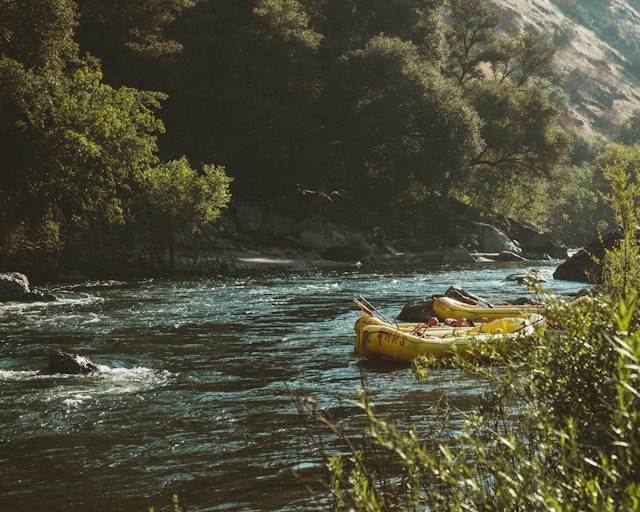
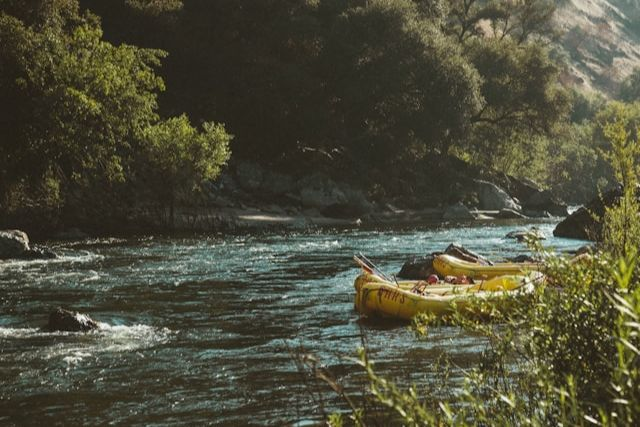
Week 06

diff --git a/wwr/trips.html b/wwr/trips.html
@@ -1,0 +1,139 @@
+<!DOCTYPE html>
+<html lang="en">
+
+<head>
+    <meta charset="UTF-8">
+    <meta name="viewport" content="width=device-width, initial-scale=1.0">
+    <meta name="description"
+      content="Explore Venice Rafting's whitewater trips: La Acequia, Monte andino, Río Canaguá, Ríos del Sur, and Río Sinigüís. Find the perfect adventure for you.">
+    <meta name="author" content="Valeria Quintero">
+    <title>Venice Rafting | Trips</title>
+    <link rel="stylesheet" href="styles/rafting.css">
+</head>
+
+<body>
+    <header>
+        <img src="images/logo.png" alt="Venice rafting logo">
+        <nav>
+            <ul>
+                <li><a href="index.html">Home</a></li>
+                <li><a href="about.html">About Us</a></li>
+                <li><a href="trips.html" class="active">Trips</a></li>
+                <li><a href="contact.html">Contact Us</a></li>
+            </ul>
+        </nav>
+    </header>
+
+    <main>
+
+        <!-- contact -->
+        <section class="trips-cta">
+            <h1>Choose Your Adventure</h1>
+            <p>From gentle floats to adrenaline pumping rapids, we have a trip for every level. Have
+                questions? Our team is ready to help.</p>
+            <a href="contact.html" class="btn btn-primary">Contact Us Today</a>
+        </section>
+
+        <!-- Trip cards-->
+        <section class="trip-cards">
+            <h2>Featured Trips</h2>
+            <div class="cards-grid">
+                <article class="trip-card">
+                    <img src="images/rafting1.jpg" alt="La Acequia river rapids">
+                    <h3>La Acequia</h3>
+                    <p><strong>Difficulty:</strong> Class III–IV</p>
+                    <p><strong>Duration:</strong> 1 Day</p>
+                    <p>Experience the thrill of Venezuela’s most iconic canyon. This full‑day trip
+                        combines big waves, stunning rock formations, and a picnic by the river.</p>
+                </article>
+                <article class="trip-card">
+                    <img src="images/rafting2.jpg" alt="Monte andino forest rafting">
+                    <h3>Monte andino</h3>
+                    <p><strong>Difficulty:</strong> Class II–III</p>
+                    <p><strong>Duration:</strong> Half Day</p>
+                    <p>Perfect for families and beginners, this scenic float takes you through lush
+                        Andean foothills with plenty of wildlife and calm stretches to enjoy.</p>
+                </article>
+                <article class="trip-card">
+                    <img src="images/rafting3.jpg" alt="Río Canaguá sunset trip">
+                    <h3>Río Canaguá</h3>
+                    <p><strong>Difficulty:</strong> Class IV–V</p>
+                    <p><strong>Duration:</strong> 2 Days</p>
+                    <p>For the true adventurer – overnight camping under the stars, with continuous
+                        whitewater and remote wilderness. Advanced paddling skills required.</p>
+                </article>
+            </div>
+        </section>
+
+        <!-- trip table -->
+        <section class="trip-table-section">
+            <h2>All Available Trips</h2>
+            <table class="trip-table">
+                <thead>
+                    <tr>
+                        <th>Trip Name</th>
+                        <th>Difficulty</th>
+                        <th>Duration</th>
+                        <th>Price (per person)</th>
+                        <th>Group Size</th>
+                    </tr>
+                </thead>
+                <tbody>
+                    <tr>
+                        <td>La Acequia</td>
+                        <td>Class III–IV</td>
+                        <td>1 Day</td>
+                        <td>$120</td>
+                        <td>4–12</td>
+                    </tr>
+                    <tr>
+                        <td>Monte andino</td>
+                        <td>Class II–III</td>
+                        <td>Half Day</td>
+                        <td>$80</td>
+                        <td>4–16</td>
+                    </tr>
+                    <tr>
+                        <td>Río Canaguá</td>
+                        <td>Class IV–V</td>
+                        <td>2 Days</td>
+                        <td>$280</td>
+                        <td>4–8</td>
+                    </tr>
+                    <tr>
+                        <td>Ríos del Sur</td>
+                        <td>Class III</td>
+                        <td>1 Day</td>
+                        <td>$110</td>
+                        <td>4–14</td>
+                    </tr>
+                    <tr>
+                        <td>Río Sinigüís</td>
+                        <td>Class II</td>
+                        <td>Half Day</td>
+                        <td>$65</td>
+                        <td>4–20</td>
+                    </tr>
+                </tbody>
+            </table>
+        </section>
+
+    </main>
+
+    <footer>
+        <p>© 2026 Venice Rafting, Valeria Quintero | Rush through the water.</p>
+        <nav class="socialmedia">
+            <a href="https://facebook.com" target="_blank" rel="noopener noreferrer">
+                <img src="images/facebook.png" alt="Facebook icon">
+            </a>
+            <a href="https://twitter.com" target="_blank" rel="noopener noreferrer">
+                <img src="images/twitter.png" alt="Twitter icon">
+            </a>
+            <a href="https://instagram.com" target="_blank" rel="noopener noreferrer">
+                <img src="images/instagram.png" alt="Instagram icon">
+            </a>
+        </nav>
+    </footer>
+</body>
+
+</html>

diff --git a/wwr/index.html b/wwr/index.html
@@ -1,0 +1,130 @@
+<!DOCTYPE html>
+<html lang="en">
+
+<head>
+    <meta charset="UTF-8">
+    <meta name="viewport" content="width=device-width, initial-scale=1.0">
+    <meta name="description"
+      content="Venice Rafting offers unforgettable whitewater adventures inspired by Venezuela. Book your trip today and experience the thrill of the river.">
+    <meta name="author" content="Valeria Quintero">
+    <title>Venice Rafting | Home</title>
+    <link rel="stylesheet" href="styles/rafting.css">
+</head>
+
+<body>
+    <header>
+        <img src="images/logo.png" alt="Venice rafting logo">
+        <nav>
+            <ul>
+                <li><a href="index.html" class="active">Home</a></li>
+                <li><a href="about.html">About Us</a></li>
+                <li><a href="trips.html">Trips</a></li>
+                <li><a href="contact.html">Contact Us</a></li>
+            </ul>
+        </nav>
+    </header>
+
+    <main>
+
+        <!-- Hero -->
+        <section class="hero">
+            <img src="images/hero-rafting.jpg" alt="Rafting team conquering wild rapids">
+            <div class="hero-content">
+                <h1>HAVE AN ADVENTURE</h1>
+                <p>Make Memories with Venice Rafting</p>
+                <a href="trips.html" class="btn btn-primary">Book Now</a>
+            </div>
+        </section>
+
+        <!-- Features grid-->
+        <section class="features">
+            <h2>Why Venice Rafting?</h2>
+            <div class="features-grid">
+                <div class="feature-item">
+                    <img src="images/rafting1.jpg" alt="Expert guide leading a raft">
+                    <h3>Expert Guides</h3>
+                    <p>Our certified local guides know every rapid and hidden eddy, ensuring a safe
+                        and thrilling ride.</p>
+                </div>
+                <div class="feature-item">
+                    <img src="images/rafting3.jpg" alt="Breathtaking river canyon">
+                    <h3>Breathtaking Scenery</h3>
+                    <p>From lush valleys to rugged canyons, Venezuela’s landscapes are as
+                        unforgettable as the rapids.</p>
+                </div>
+                <div class="feature-item">
+                    <img src="images/rafting5.jpg" alt="Custom trip planning">
+                    <h3>Custom Trips</h3>
+                    <p>Whether you’re a first-timer or a seasoned paddler, we tailor every
+                        expedition to your group.</p>
+                </div>
+            </div>
+        </section>
+
+        <!-- grid -->
+        <section class="more-section">
+            <div class="more-grid">
+                <div class="more-text">
+                    <h2>More Than Just The Thrill</h2>
+                    <p>
+                        Enjoy the breathtaking scenery. From valleys, meadows, canyons, and away
+                        from it all, relax amongst all the beauty of the great outdoors. Our trips
+                        depart from Caracas to the best rafting rivers in the country, blending
+                        urban energy with wild landscapes.
+                    </p>
+                    <a href="about.html" class="btn btn-secondary">Join Us</a>
+                </div>
+                <div class="more-image">
+                    <img src="images/rafting2.jpg" alt="Scenic river valley">
+                </div>
+            </div>
+        </section>
+
+        <!-- Newsletter -->
+        <section class="newsletter">
+            <h2>Stay in the Loop</h2>
+            <p>Sign up for our newsletter and be the first to know about new trips, special offers,
+                and river updates.</p>
+            <form action="#" method="post" class="newsletter-form">
+                <div class="form-group">
+                    <label for="name">Name</label>
+                    <input type="text" id="name" name="name" placeholder="Your full name" required>
+                </div>
+                <div class="form-group">
+                    <label for="email">Email</label>
+                    <input type="email" id="email" name="email" placeholder="[email redacted]"
+                      required>
+                </div>
+                <button type="submit" class="btn btn-primary">Sign Up</button>
+            </form>
+        </section>
+
+        <!-- Trips -->
+        <section class="cta-banner">
+            <div class="cta-content">
+                <h2>Ready for Your Next Adventure?</h2>
+                <p>Explore our trips and find the perfect rafting experience for you and your group.
+                </p>
+                <a href="trips.html" class="btn btn-primary">View All Trips</a>
+            </div>
+        </section>
+
+    </main>
+
+    <footer>
+        <p>© 2026 Venice Rafting, Valeria Quintero | Rush through the water.</p>
+        <nav class="socialmedia">
+            <a href="https://facebook.com" target="_blank" rel="noopener noreferrer">
+                <img src="images/facebook.png" alt="Facebook icon">
+            </a>
+            <a href="https://twitter.com" target="_blank" rel="noopener noreferrer">
+                <img src="images/twitter.png" alt="Twitter icon">
+            </a>
+            <a href="https://instagram.com" target="_blank" rel="noopener noreferrer">
+                <img src="images/instagram.png" alt="Instagram icon">
+            </a>
+        </nav>
+    </footer>
+</body>
+
+</html>